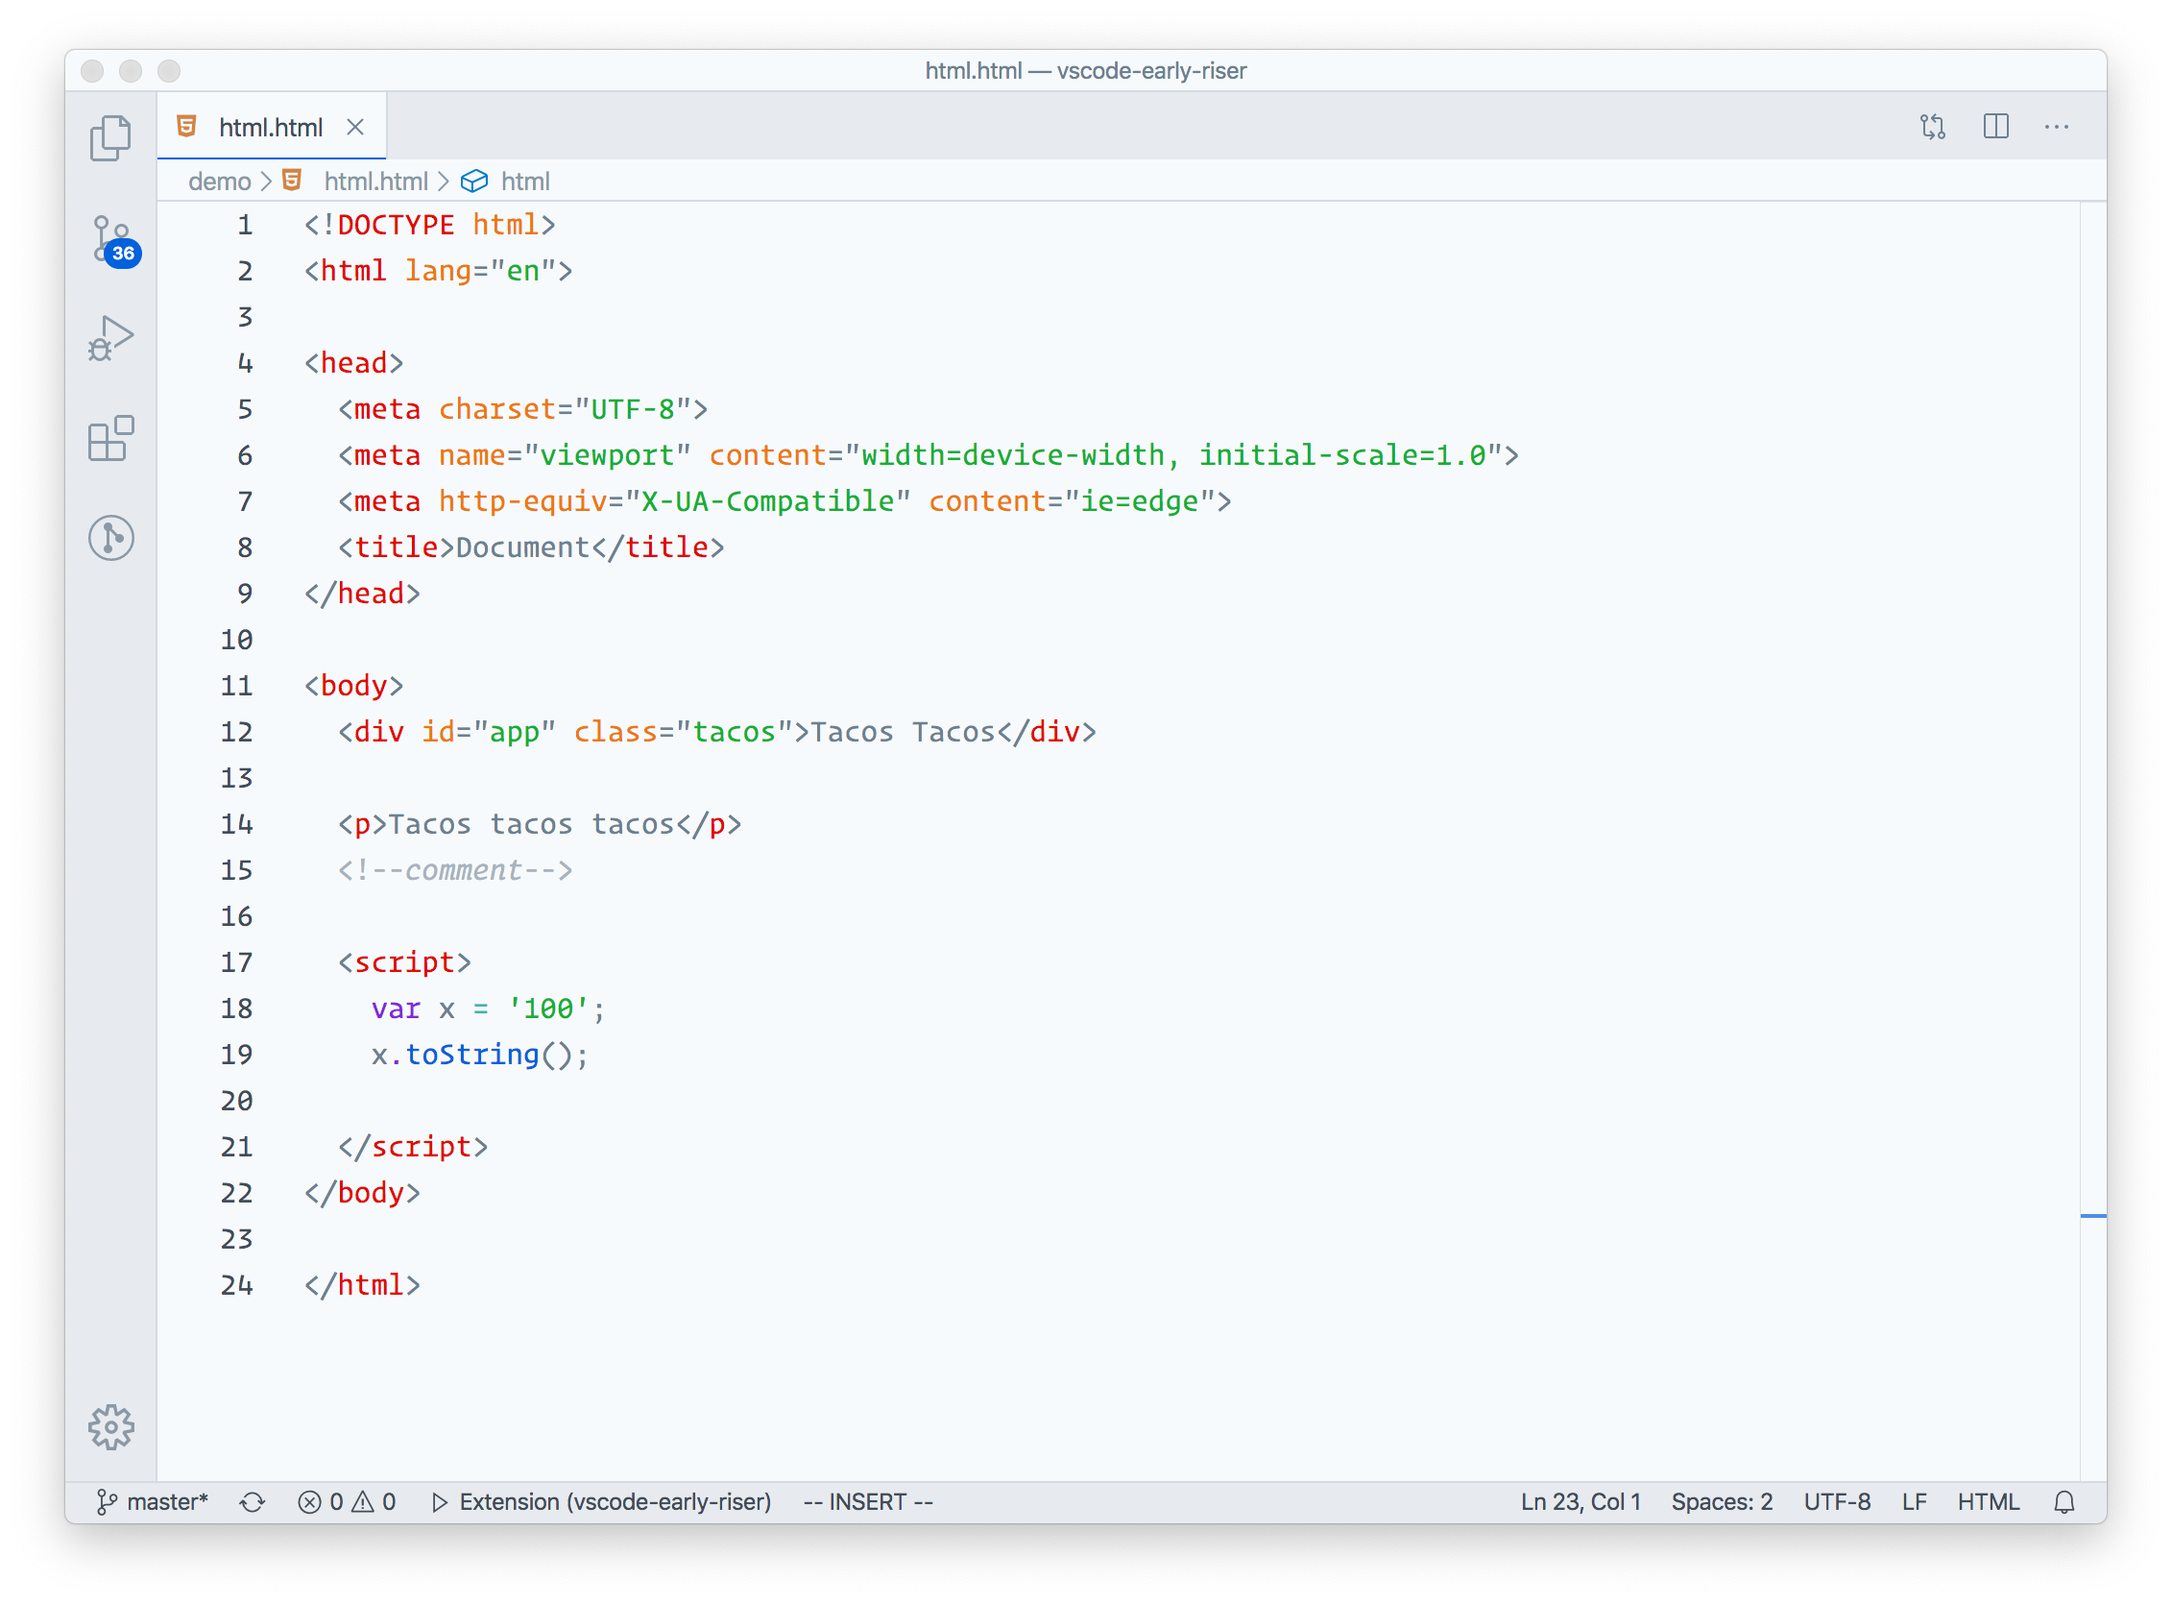
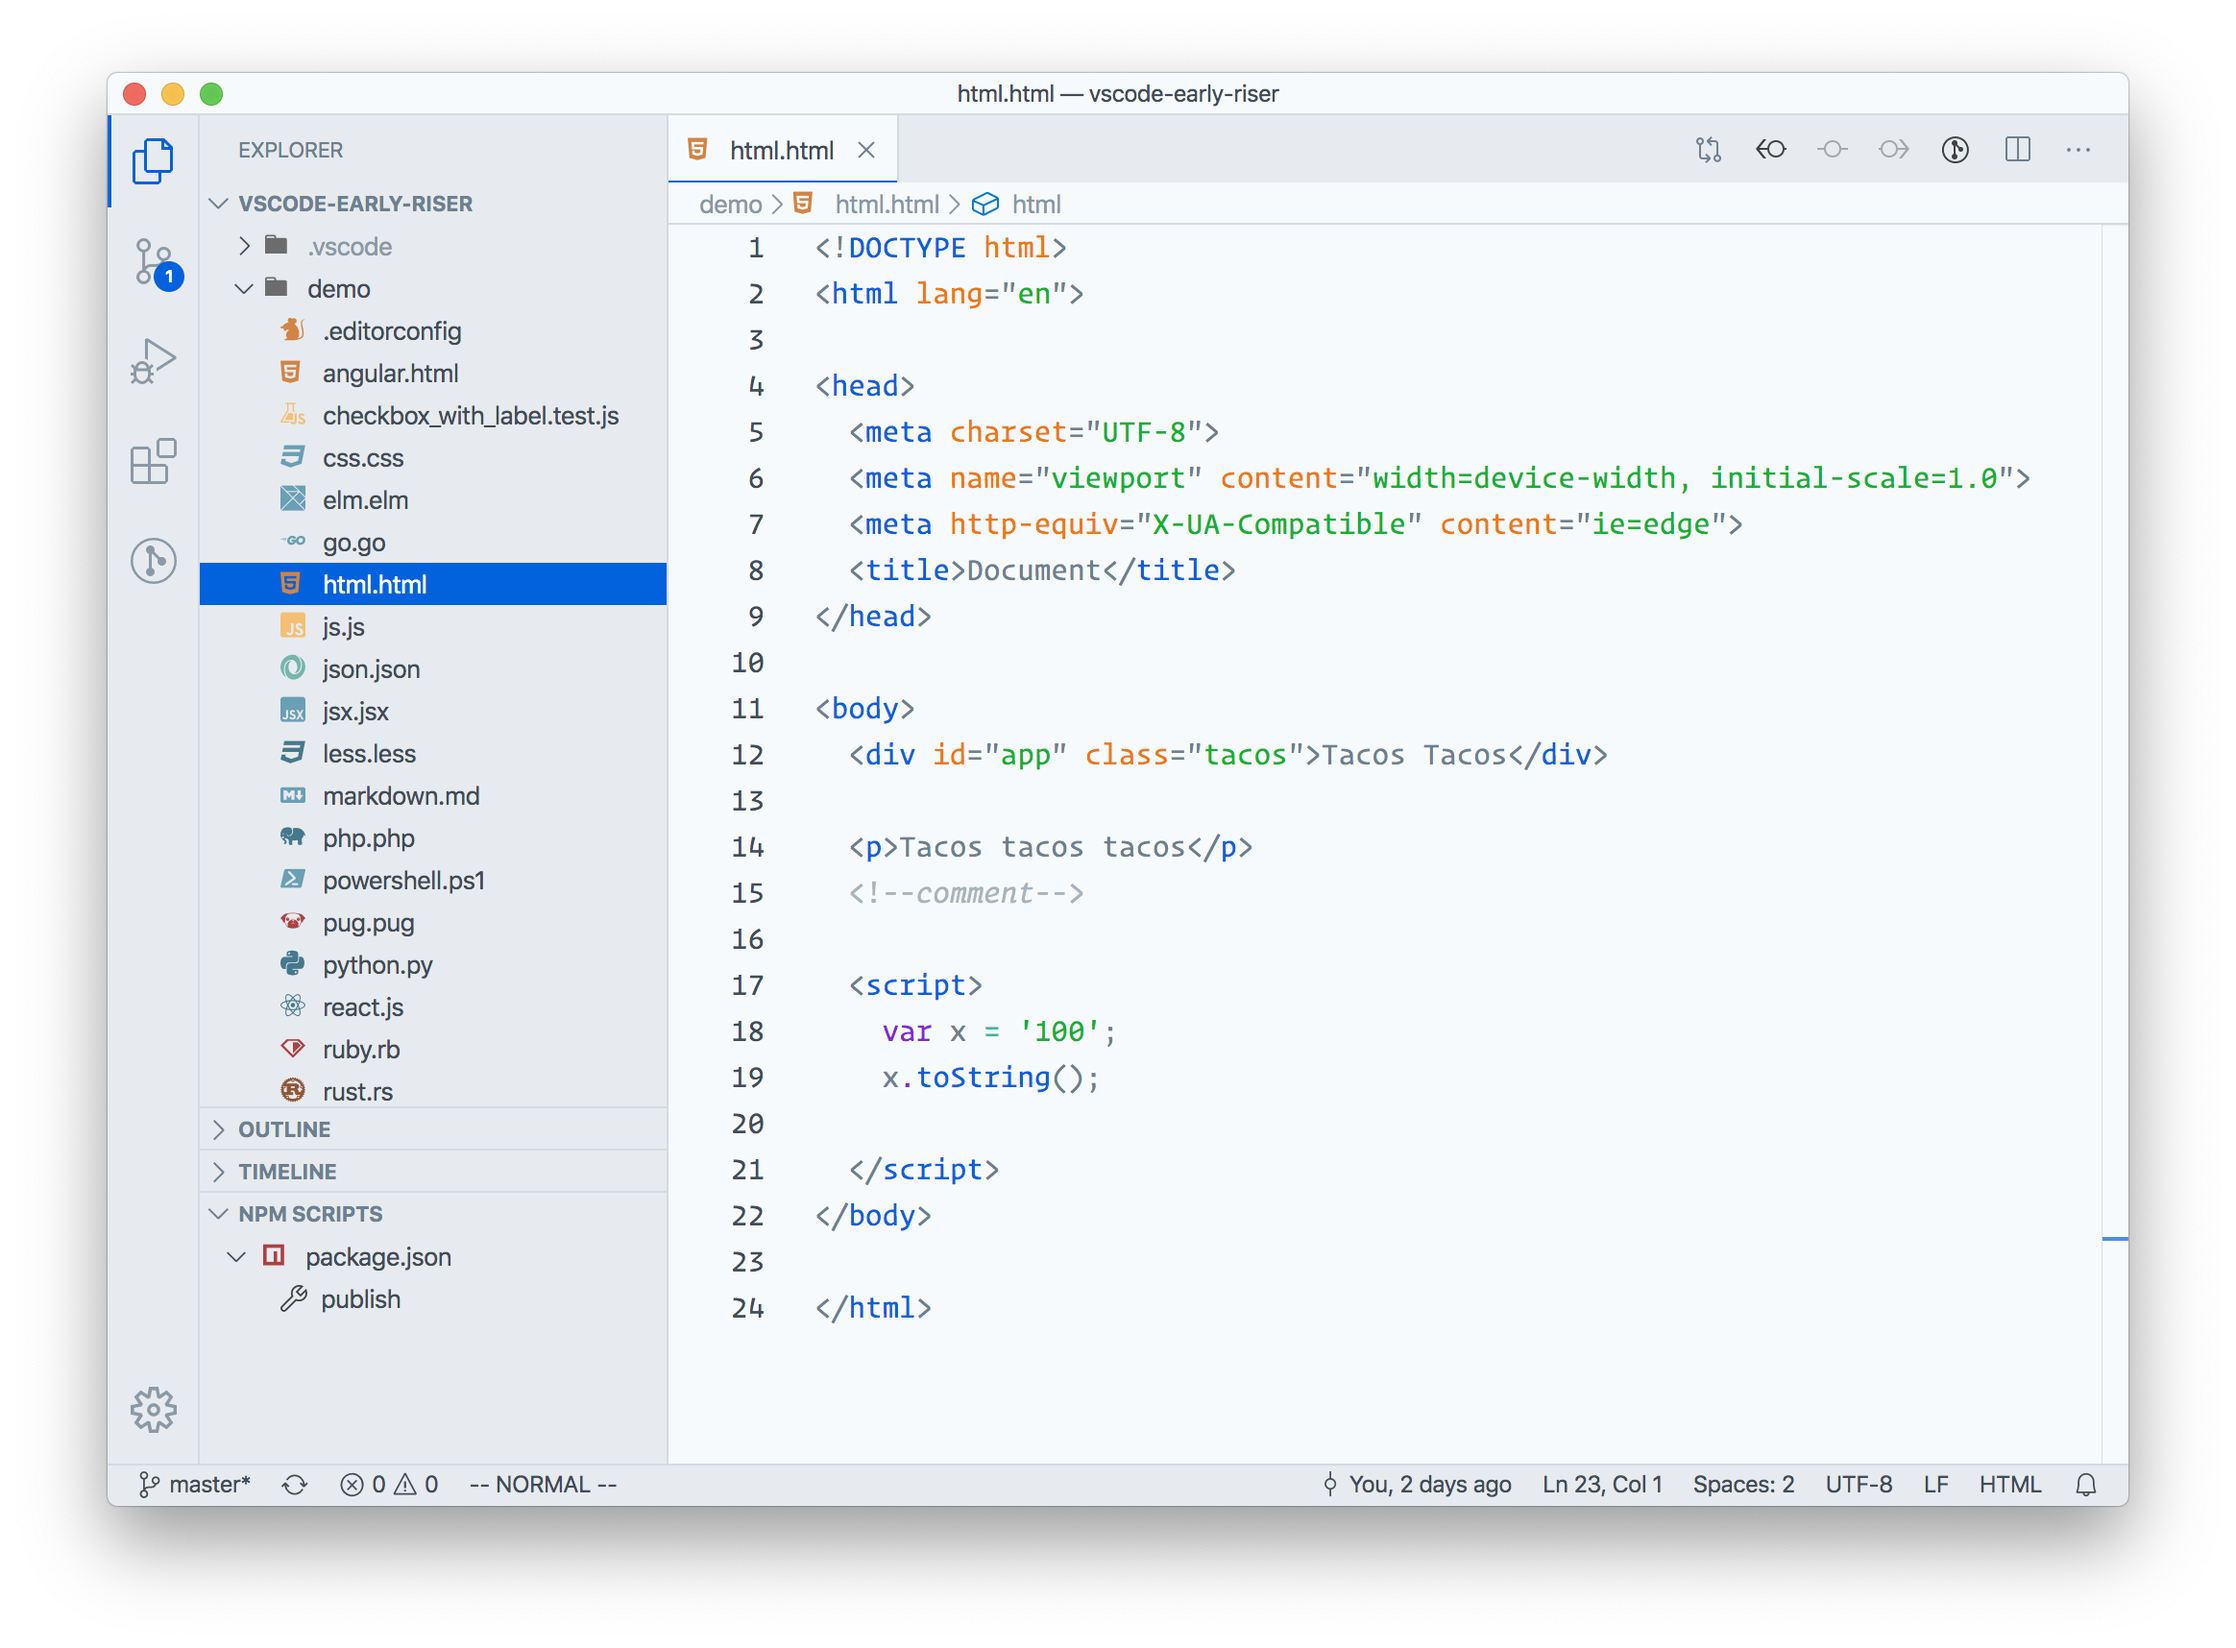
fix badge contrast

diff --git a/CHANGELOG.md b/CHANGELOG.md
@@ -1,6 +1,9 @@
 # Change Log
 All notable changes to the "early-riser" extension will be documented in this file.
 
+## 1.1.5
+- Fix bad contrast on extension badges and buttons.
+
 ## 1.1.4
 - Blue HTML tags to match the original theme.
 
